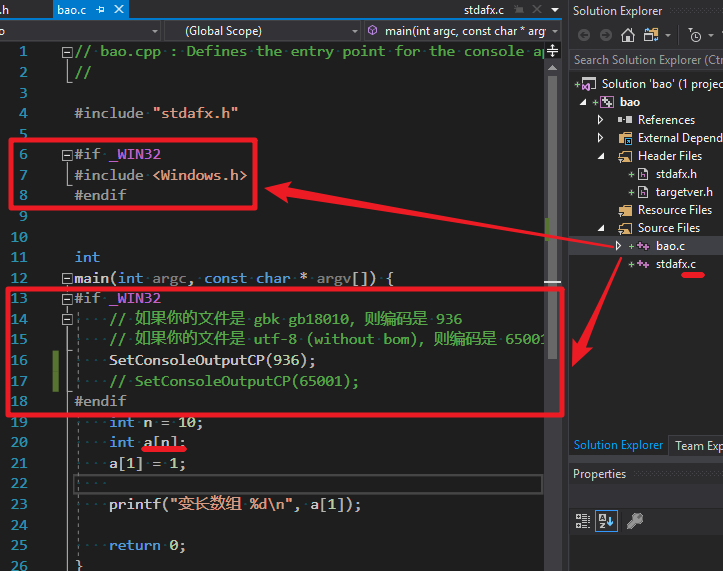
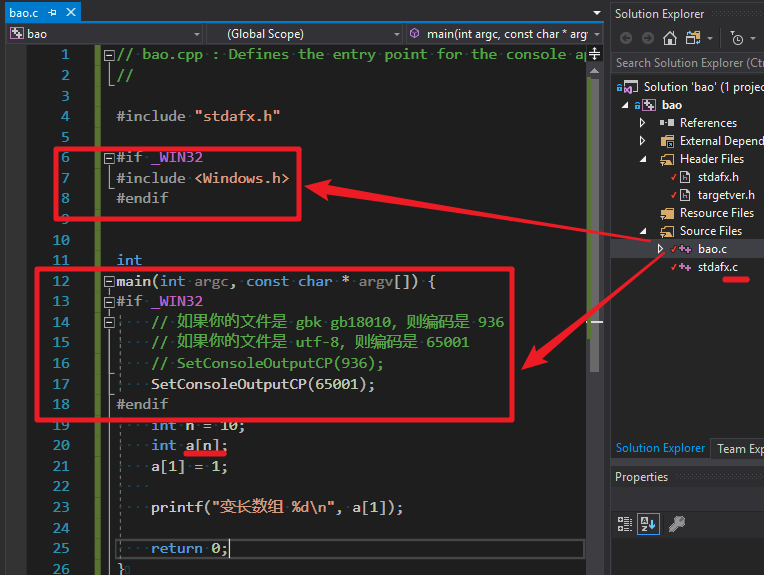
clang support bom

Changed region(s): [[0.0, 0.0, 1.0, 1.0]]

diff --git a/code/bao/bao/stdafx.c b/code/bao/bao/stdafx.c
@@ -1,4 +1,4 @@
-// stdafx.cpp : source file that includes just the standard includes
+// stdafx.cpp : source file that includes just the standard includes
 // bao.pch will be the pre-compiled header
 // stdafx.obj will contain the pre-compiled type information
 

diff --git a/code/bao/bao/stdafx.h b/code/bao/bao/stdafx.h
@@ -1,4 +1,4 @@
-// stdafx.h : include file for standard system include files,
+// stdafx.h : include file for standard system include files,
 // or project specific include files that are used frequently, but
 // are changed infrequently
 //

diff --git a/code/bao/bao/targetver.h b/code/bao/bao/targetver.h
@@ -1,4 +1,4 @@
-#pragma once
+#pragma once
 
 // Including SDKDDKVer.h defines the highest available Windows platform.
 

diff --git a/readme.md b/readme.md
@@ -23,7 +23,7 @@
 
 1. 从已有项目里面复制正确的代码
 2. 改 `.cpp` 后缀为 `.c`
-3. 确保你所有代码都是 utf-8 without bom （65001） 或者 gbk /gb18030（936） 编码
+3. 确保你所有代码都是 utf-8 （65001） 或者 gbk /gb18030（936） 编码
 
 ![](picture/6.png)
 
